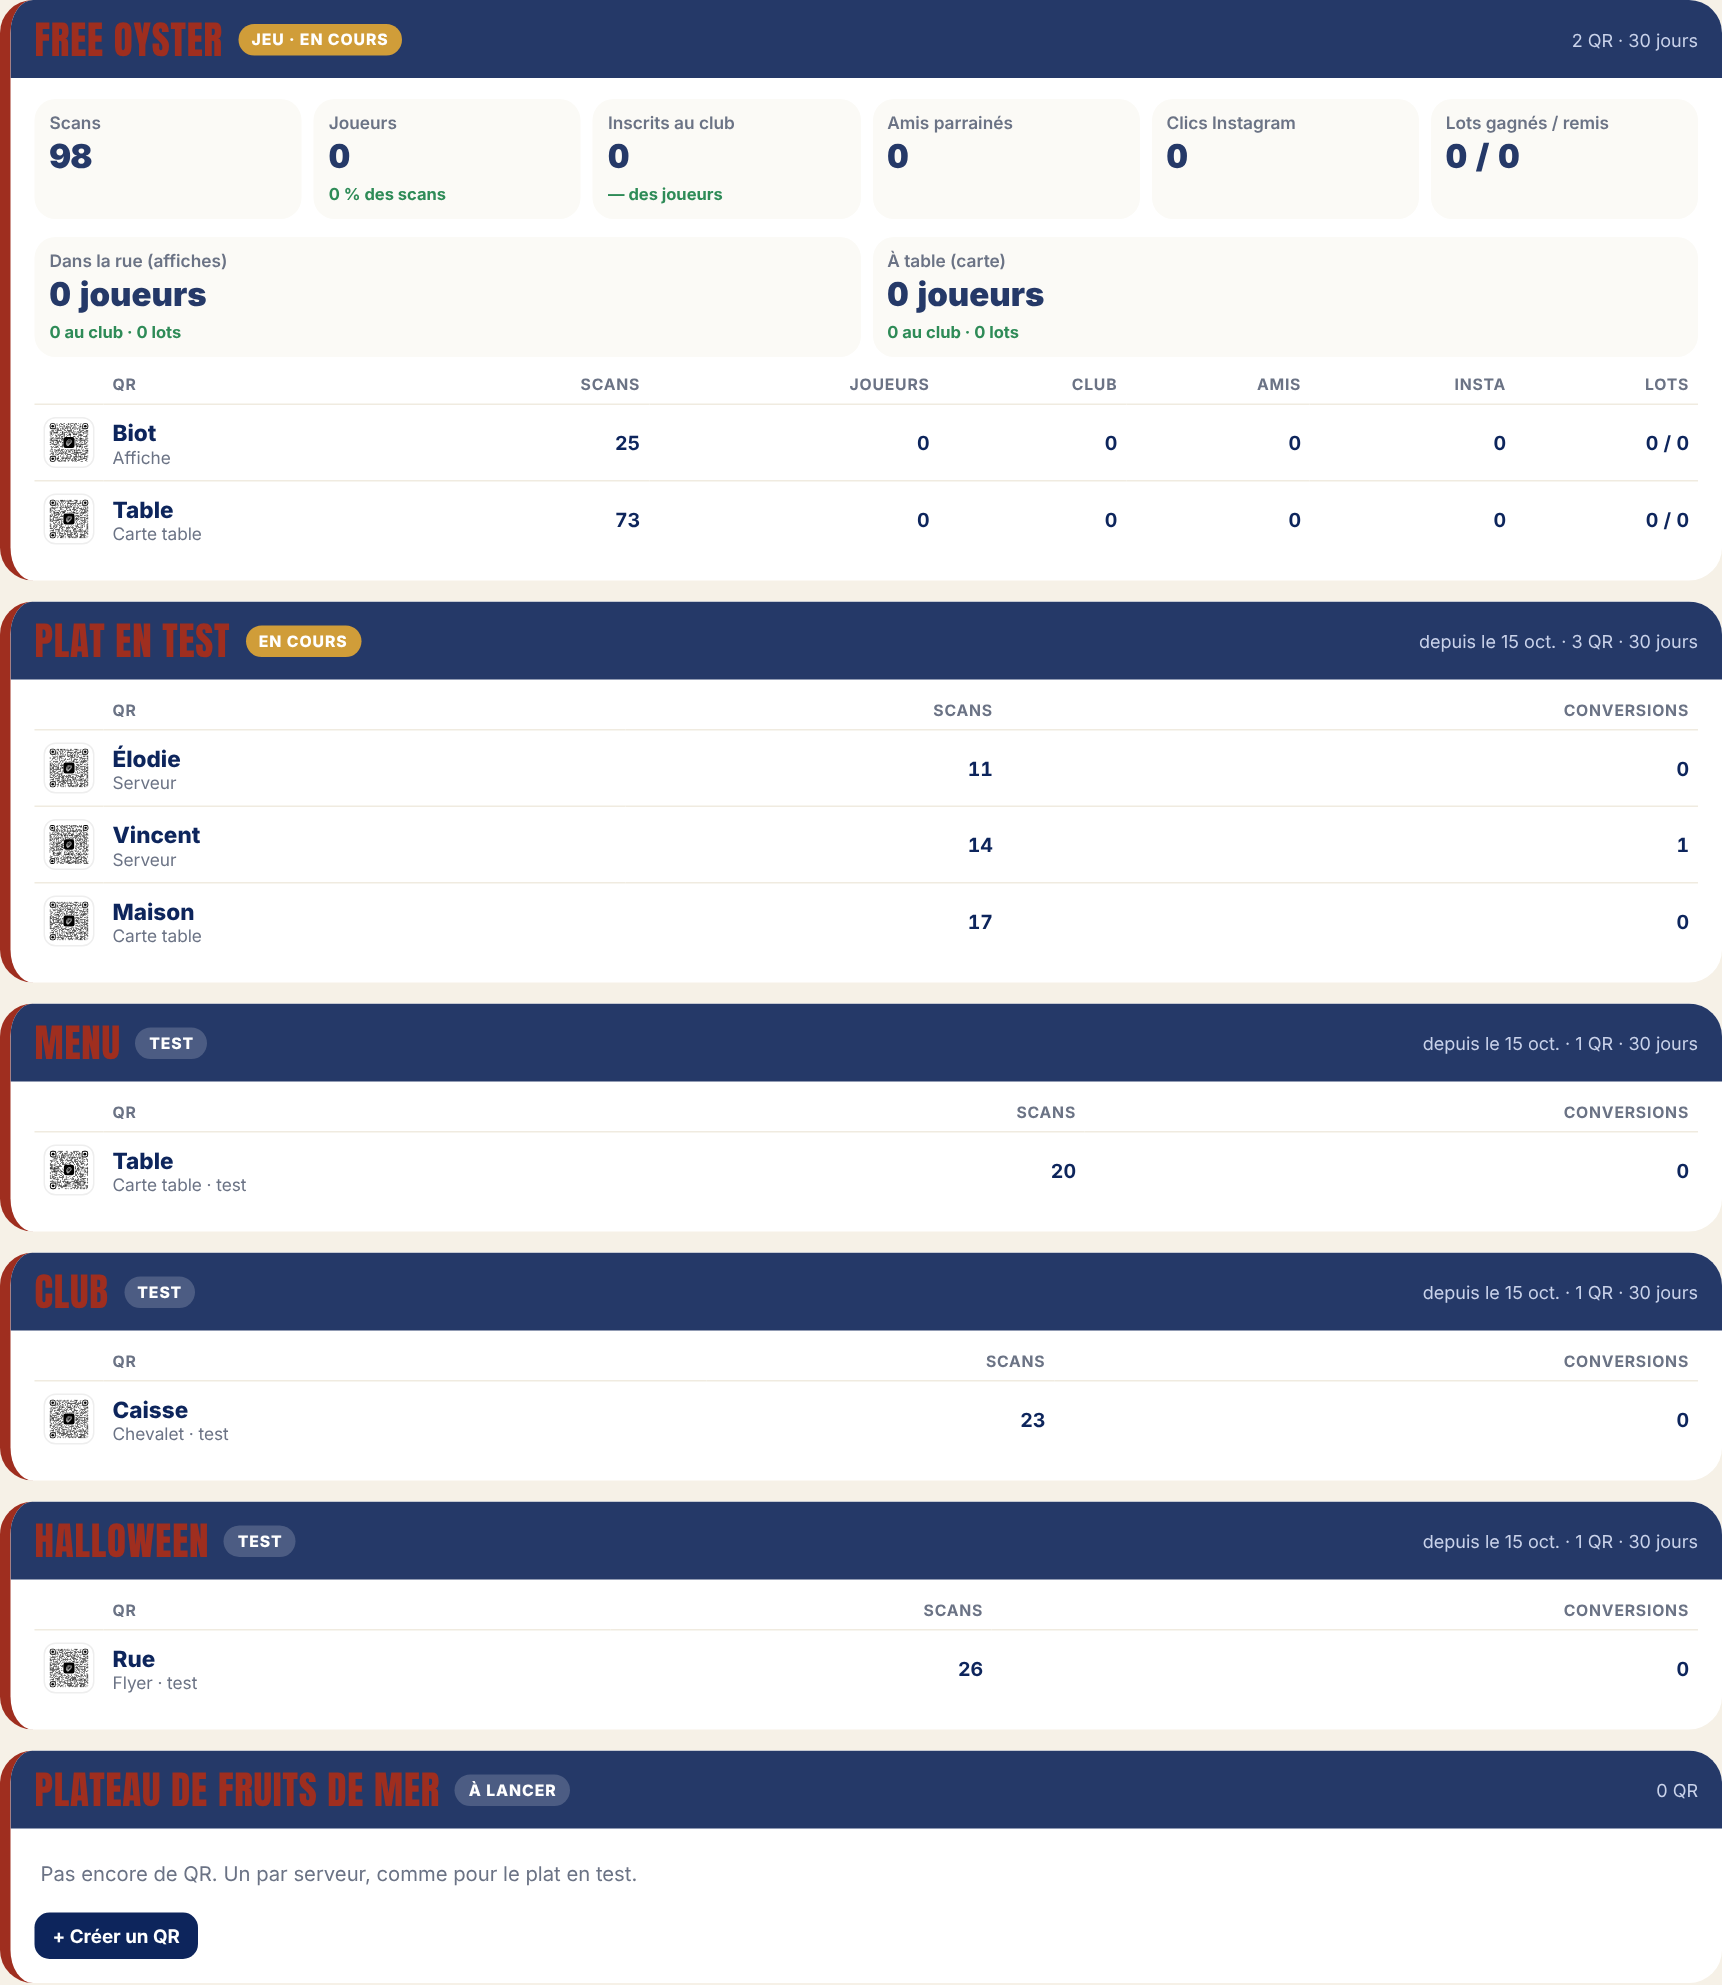
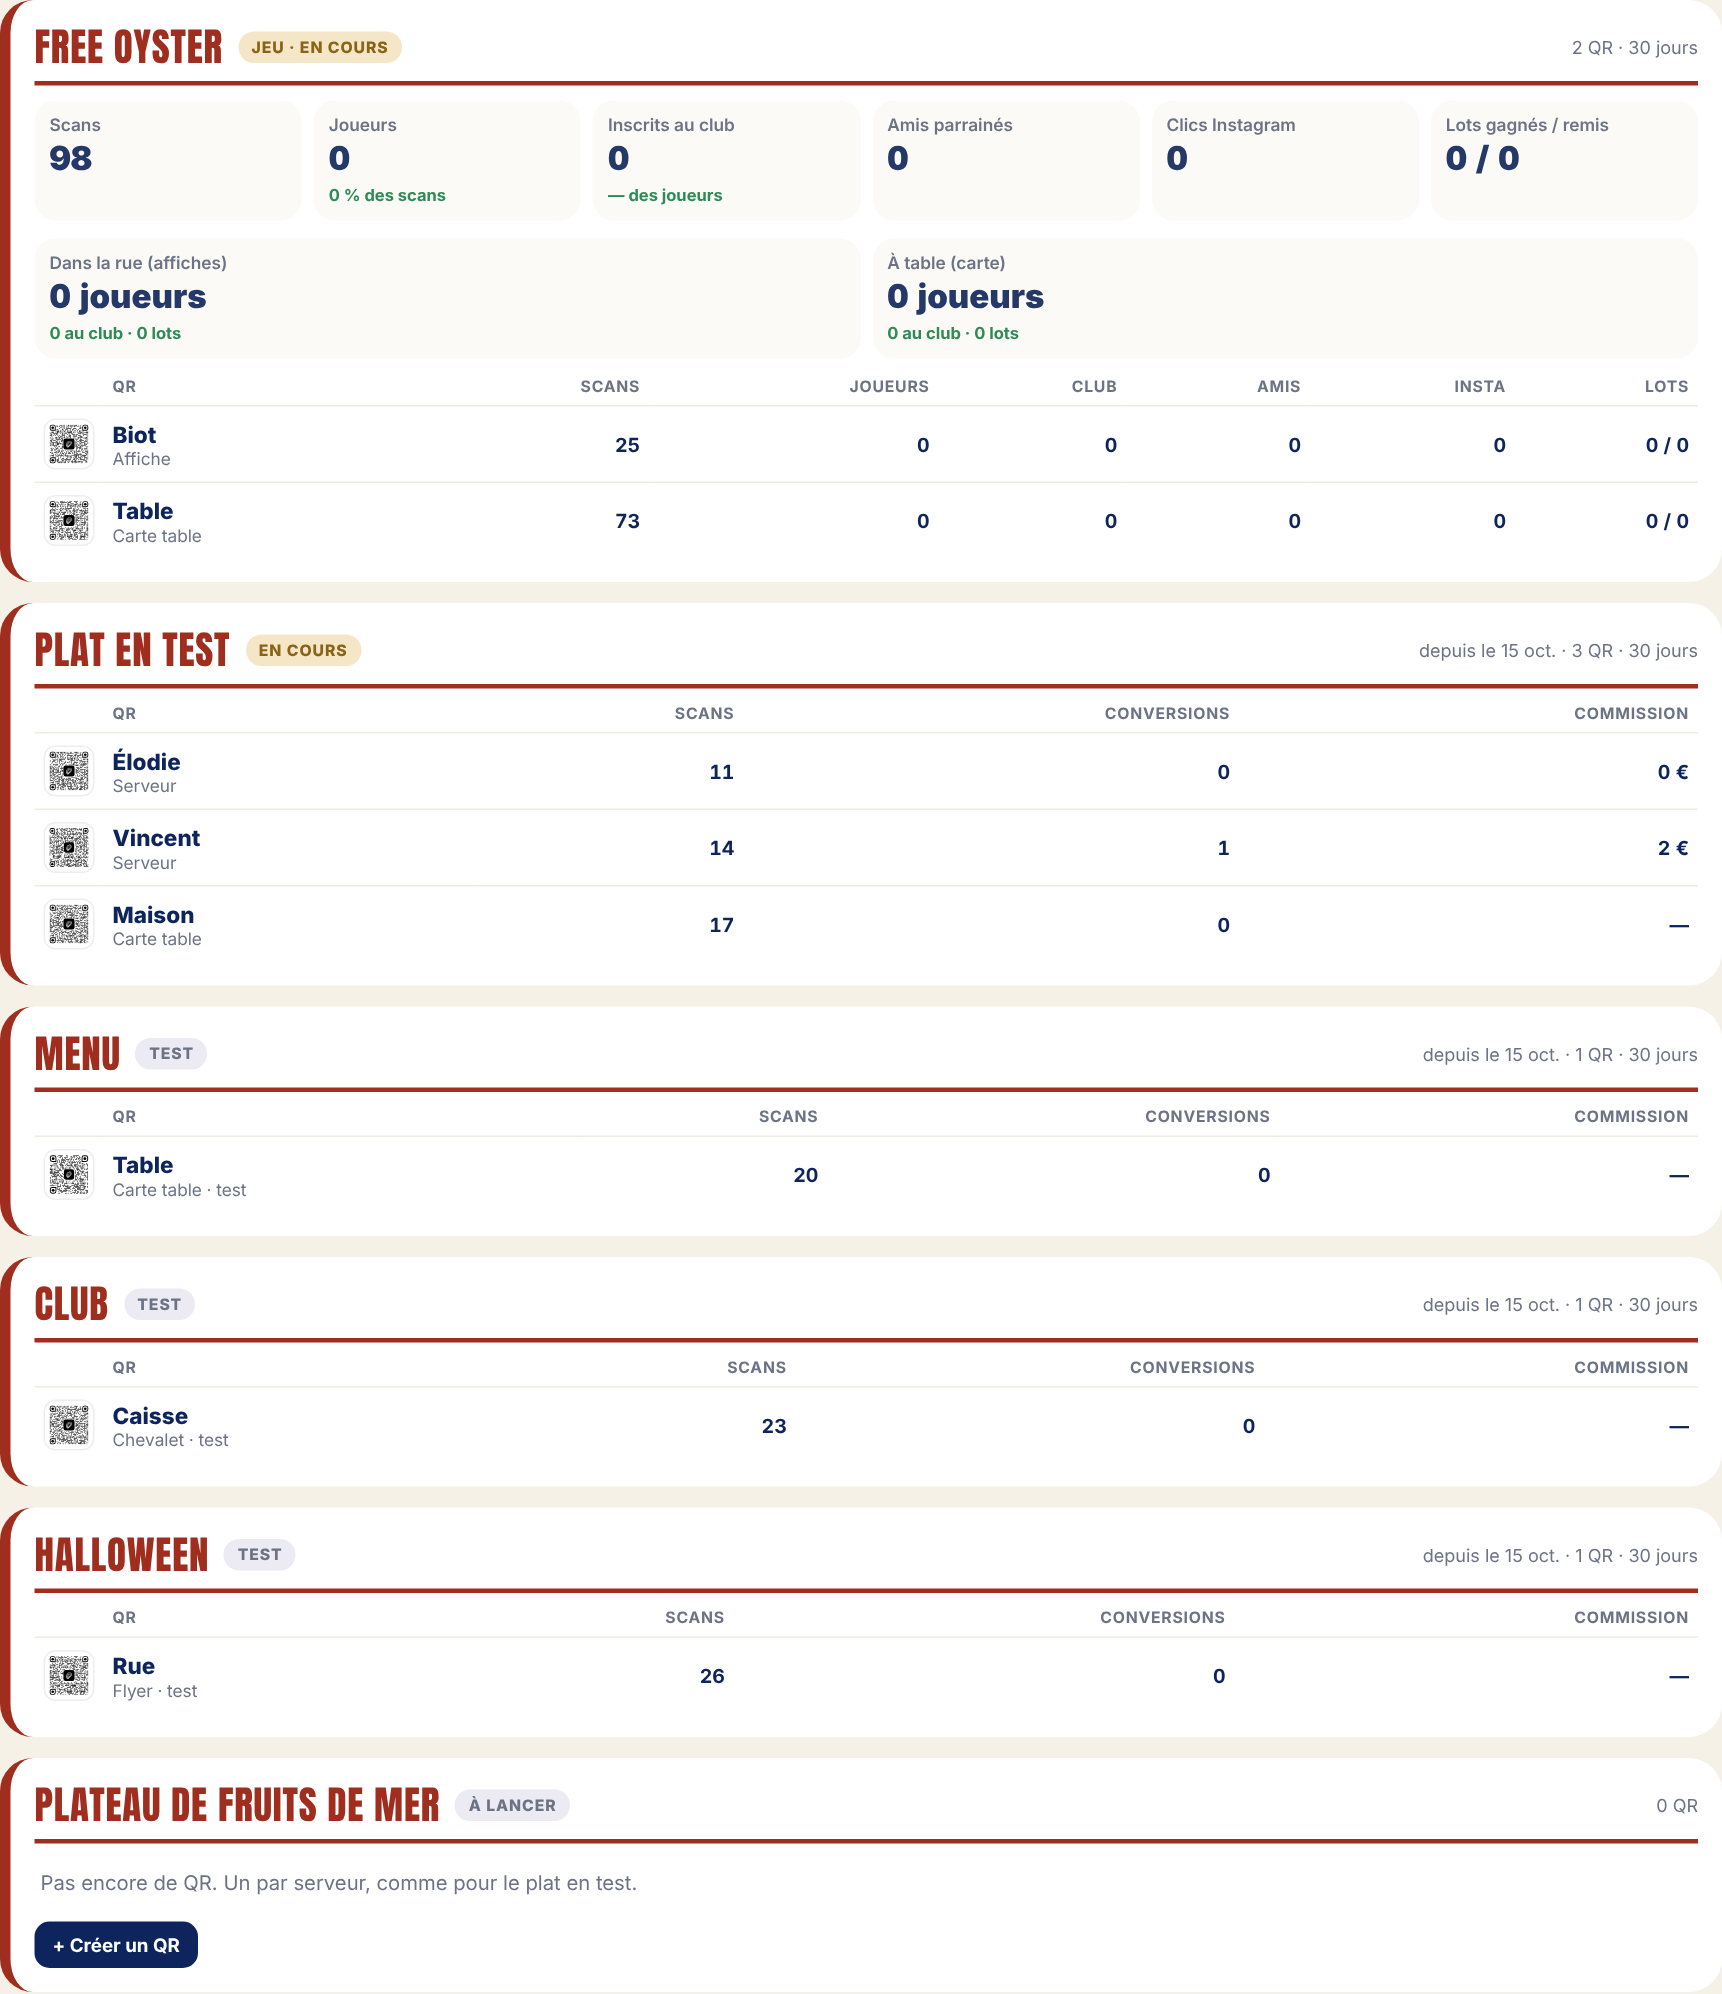
Scans QR : titres rouges soulignés, colonne Commission par QR
Claude-Session: https://claude.ai/code/session_012ueJSkHMqbZpvX7x5D3Dw2

diff --git a/drevici-preview/studio/index.html b/drevici-preview/studio/index.html
@@ -260,9 +260,9 @@ button{cursor:pointer;background:none}
 .qrbig{background:#fff;border-radius:16px;padding:10px;max-width:320px;margin:0 auto}.qrbig svg{display:block;width:100%;height:auto}
 .qstyles{display:flex;flex-wrap:wrap;gap:6px}.qstyles button{background:var(--paper);border-radius:999px;padding:7px 11px;font-size:12.5px;font-weight:700;color:var(--mut);cursor:pointer}.qstyles button.on{background:var(--ink);color:#fff}
 .qlink{background:var(--gold-soft);border-radius:12px;padding:10px 12px;font:700 12.5px ui-monospace,Menlo,monospace;color:#6b4d0f;word-break:break-all}
-.camp{margin-bottom:14px;padding-top:0;overflow:hidden}
-/* Titre de campagne : bandeau bleu pour bien séparer les campagnes */
-.camp .ch{margin:0 -16px 14px!important;padding:13px 16px;background:var(--navy)}.camp .ch b{color:#fff}.camp .ch small{color:#c9d2ea!important}.camp .ctag{background:var(--gold);color:#fff}.camp .ctag.t{background:rgba(255,255,255,.18);color:#fff}.camp .ch{display:flex;align-items:center;gap:10px;margin-bottom:10px}.camp .ch b{font:700 21px/1.1 "Playfair Display",serif}.camp .ch small{margin-left:auto;font-size:12px;color:var(--mut)}
+.camp{margin-bottom:14px;padding-top:4px}
+/* Titre de campagne : rouge, souligné sur toute la largeur */
+.camp .ch{padding:14px 0 10px;border-bottom:3px solid #9f2e1f}.camp .ch b{color:#9f2e1f;font-size:25px!important}.camp .ch{display:flex;align-items:center;gap:10px;margin-bottom:10px}.camp .ch b{font:700 21px/1.1 "Playfair Display",serif}.camp .ch small{margin-left:auto;font-size:12px;color:var(--mut)}
 .ctag{font-size:10.5px;font-weight:800;letter-spacing:.06em;text-transform:uppercase;background:var(--gold-soft);color:#8a6416;border-radius:999px;padding:4px 9px}.ctag.t{background:#eceaf2;color:var(--mut)}
 .fun{display:grid;grid-template-columns:repeat(auto-fit,minmax(120px,1fr));gap:8px;margin-bottom:12px}.fun div{background:var(--paper);border-radius:14px;padding:9px 10px}.fun small{display:block;font-size:11.5px;color:var(--mut);font-weight:600}.fun b{display:block;font-size:22px;font-weight:900;color:var(--navy);margin-top:2px}.fun i{font-style:normal;font-size:11px;color:var(--green);font-weight:700}
 @media(max-width:700px){.fun{grid-template-columns:repeat(3,1fr)}}
@@ -928,13 +928,16 @@ function demoQR(){
 const in7=x=>new Date(x)>=daysAgo(6);
 // Commandes « Plat en test » → conversions du QR qui les a amenées (validée = conversion, en attente = à valider)
 const ptConvs=()=>(typeof PT!=='undefined'&&PT.ok?PT.orders:[]).filter(o=>o.src&&o.status!=='cancelled').map(o=>{const d=PT.dishes.find(x=>x.id===o.plat_id)||{};
-  return {id:'pt'+o.id,pt:o.id,code:o.src,kind:'plat',label:'Plat en test · '+(d.name||'')+' · n° '+o.code,amount:d.price_test,status:o.status==='confirmed'?'validated':'pending',created_at:o.created_at};});
+  return {id:'pt'+o.id,pt:o.id,com:+(d.commission||0),code:o.src,kind:'plat',label:'Plat en test · '+(d.name||'')+' · n° '+o.code,amount:d.price_test,status:o.status==='confirmed'?'validated':'pending',created_at:o.created_at};});
 const allConvs=()=>CONVS.concat(ptConvs());
 function statsFor(codes){
   const set=new Set(codes),sc=SCANS.filter(x=>set.has(x.code)&&in7(x.at)),cv=allConvs().filter(x=>set.has(x.code)&&in7(x.created_at));
   const val=cv.filter(x=>x.status==='validated');
   return {scans:sc.length,conv:val.length,pending:cv.filter(x=>x.status==='pending').length,ca:val.reduce((a,x)=>a+(+x.amount||0),0),sc,cv};
 }
+// Commission gagnée par un QR sur 7 jours : plat en test = montant par plat validé (cartes à prénom), sinon % du montant des ventes validées
+function comOf(q){const s=statsFor([q.code]);return s.cv.filter(c=>c.status==='validated').reduce((a,c)=>a+(c.pt?(ptPaid(q.code)?c.com:0):(+c.amount||0)*pctOf(q.commission)),0);}
+const hasCom=q=>!!(q.owner&&(q.support==='Serveur'||pctOf(q.commission)||/€/.test(q.commission||'')));
 function pctOf(com){const m=/([\d,.]+)\s*%/.exec(com||'');return m?parseFloat(m[1].replace(',','.'))/100:0;}
 const eur=n=>(Math.round(n*100)/100).toLocaleString('fr-FR',{minimumFractionDigits:n%1?2:0,maximumFractionDigits:2})+' €';
 function dayBars(sc){const v=[...Array(7)].map((_,i)=>{const d0=daysAgo(6-i),d1=daysAgo(5-i);return sc.filter(x=>{const t=new Date(x.at);return t>=d0&&t<d1;}).length;});
@@ -995,8 +998,8 @@ function renderQR(){
       ${jeu?funnelHTML(f):''}
       ${(()=>{const tb=qs.filter(q=>/carte-table/.test(q.path||'')),ru=qs.filter(q=>!/carte-table/.test(q.path||''));if(!jeu||!tb.length||!ru.length)return '';const a=funnel(ru.map(q=>q.code)),b=funnel(tb.map(q=>q.code));
         return `<div class="fun" style="grid-template-columns:1fr 1fr"><div><small>Dans la rue (affiches)</small><b class="num">${a.players} joueurs</b><i>${a.club} au club · ${a.won} lots</i></div><div><small>À table (carte)</small><b class="num">${b.players} joueurs</b><i>${b.club} au club · ${b.won} lots</i></div></div>`;})()}
-      <table class="qt"><tr><th></th><th>QR</th><th>Scans</th>${jeu?'<th>Joueurs</th><th class="hm">Club</th><th class="hm">Amis</th><th class="hm">Insta</th><th>Lots</th>':'<th>Conversions</th>'}</tr>
-      ${qs.map(q=>{const g=funnel([q.code]),s7=statsFor([q.code]);return `<tr data-href="#qr/${encodeURIComponent(q.code)}"><td style="width:44px"><div class="qmini">${qrArt(q,120)}</div></td><td><b class="qn">${esc(qName(q))}</b><small>${esc(qSub(q))}</small></td><td>${g.scans}</td>${jeu?`<td>${g.players}</td><td class="hm">${g.club}</td><td class="hm">${g.friends}</td><td class="hm">${g.insta}</td><td>${g.won} / ${g.redeemed}</td>`:`<td>${s7.conv}</td>`}</tr>`;}).join('')}</table></div>`;}).join('')+empty.map(([c,cat])=>`<div class="card camp"><div class="ch"><b>${esc(c)}</b><span class="ctag t">À lancer</span><small>0 QR</small></div><p class="empty" style="margin:0 0 10px">Pas encore de QR. Un par serveur, comme pour le plat en test.</p><a class="cbtn" href="#qr-new/${encodeURIComponent(cat)}">+ Créer un QR</a></div>`).join('');
+      <table class="qt"><tr><th></th><th>QR</th><th>Scans</th>${jeu?'<th>Joueurs</th><th class="hm">Club</th><th class="hm">Amis</th><th class="hm">Insta</th><th>Lots</th>':'<th>Conversions</th><th>Commission</th>'}</tr>
+      ${qs.map(q=>{const g=funnel([q.code]),s7=statsFor([q.code]);return `<tr data-href="#qr/${encodeURIComponent(q.code)}"><td style="width:44px"><div class="qmini">${qrArt(q,120)}</div></td><td><b class="qn">${esc(qName(q))}</b><small>${esc(qSub(q))}</small></td><td>${g.scans}</td>${jeu?`<td>${g.players}</td><td class="hm">${g.club}</td><td class="hm">${g.friends}</td><td class="hm">${g.insta}</td><td>${g.won} / ${g.redeemed}</td>`:`<td>${s7.conv}</td><td>${hasCom(q)?eur(comOf(q)):'—'}</td>`}</tr>`;}).join('')}</table></div>`;}).join('')+empty.map(([c,cat])=>`<div class="card camp"><div class="ch"><b>${esc(c)}</b><span class="ctag t">À lancer</span><small>0 QR</small></div><p class="empty" style="margin:0 0 10px">Pas encore de QR. Un par serveur, comme pour le plat en test.</p><a class="cbtn" href="#qr-new/${encodeURIComponent(cat)}">+ Créer un QR</a></div>`).join('');
   document.getElementById('qrK').innerHTML=`<div class="kpi n"><span>Scans · 7 j</span><b class="num">${st.scans.toLocaleString('fr-FR')}</b></div><div class="kpi"><span>Conversions</span><b class="num">${st.conv}</b></div><div class="kpi"><span>Taux</span><b class="num">${st.scans?(st.conv/st.scans*100).toFixed(1).replace('.',','):'0'} %</b></div>`;
   document.getElementById('qrList').innerHTML=l.map(q=>({q,s:statsFor([q.code])})).sort((a,b)=>b.s.scans-a.s.scans).map(({q,s})=>`<a class="qrl" href="#qr/${encodeURIComponent(q.code)}"><span class="ic">${q.path?'<span style="display:block;width:30px;height:30px">'+qrArt(q,90)+'</span>':(CAT_IC[q.category]||'🔗')}</span><div><b class="qn">${esc(q.path?qName(q):q.label||q.code)}</b><small>${esc(q.path?campOf(q)+' · '+q.support:q.code)}</small></div><div class="r"><b class="num">${s.scans}</b>${s.conv} conv.</div></a>`).join('')||'<p class="empty">Aucun code.</p>';
   const b=dayBars(st.sc);document.getElementById('qrChart').innerHTML=b.html;document.getElementById('qrLab').innerHTML=b.lab;
